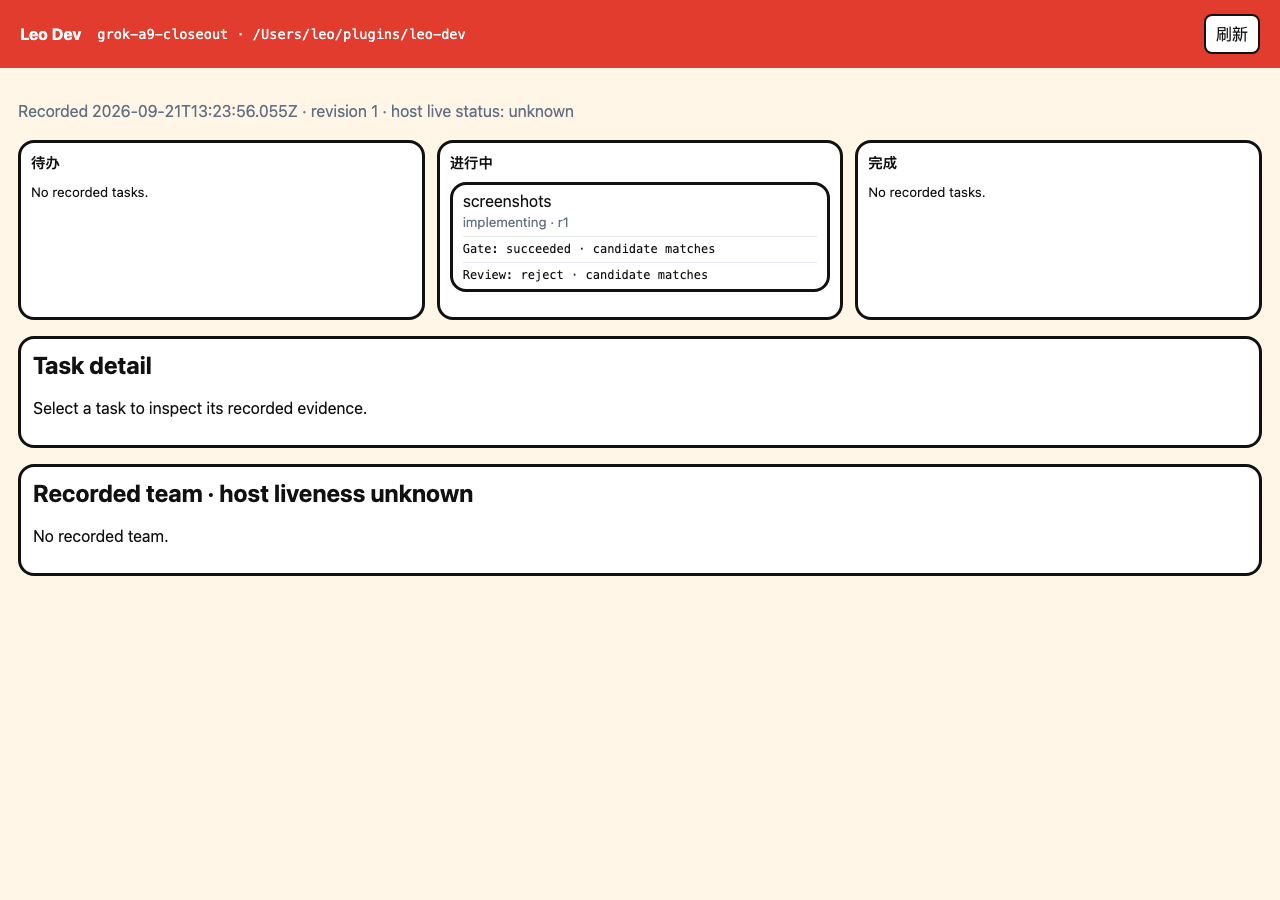
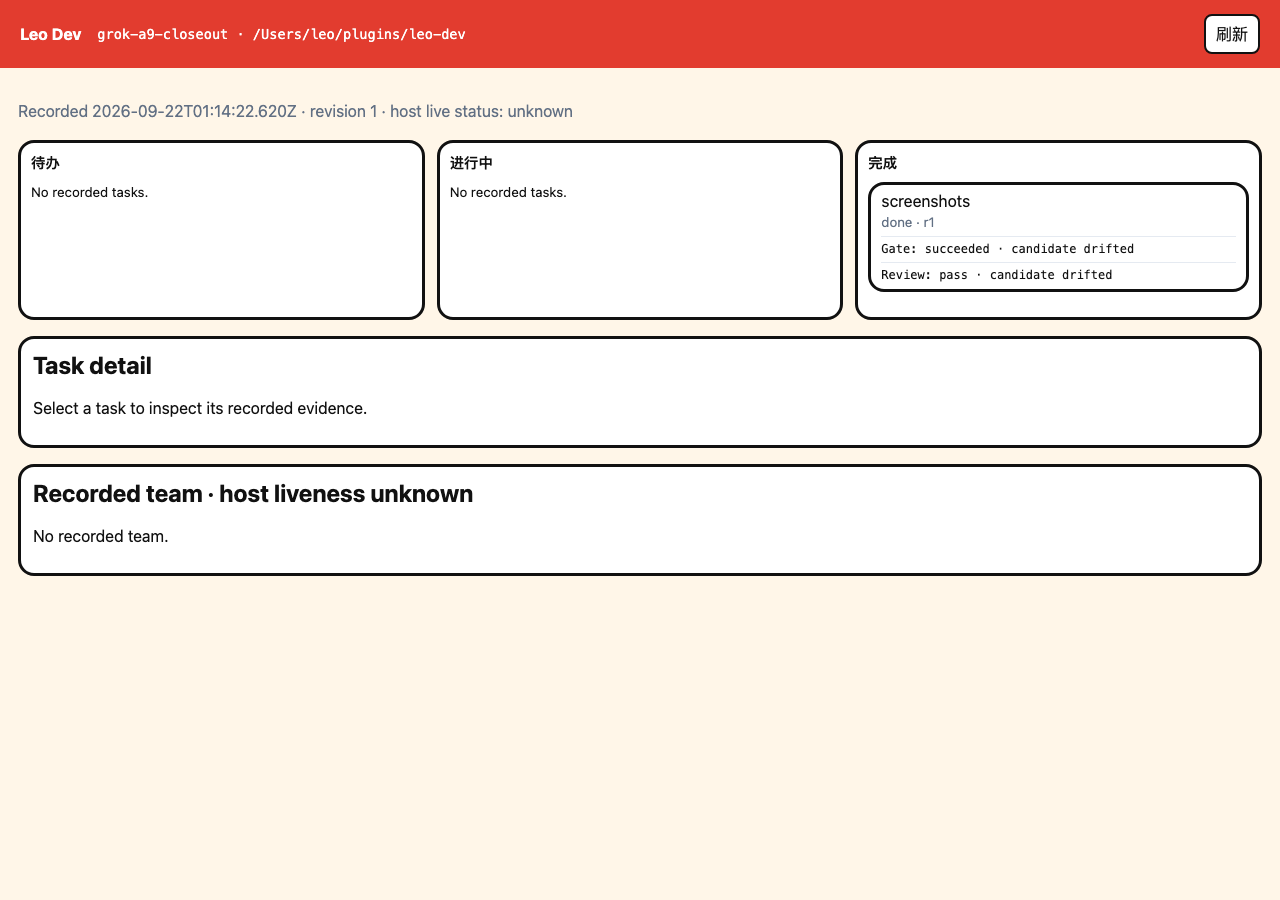
docs: align README with v2 workbench and independent review
Describe the three-column Chinese board, Grok as first-period host,
and host-subagent review (not a second window). Refresh done-state screenshots.

diff --git a/README.md b/README.md
@@ -3,12 +3,14 @@
 </p>
 
 <h1 align="center">Leo Dev</h1>
-<p align="center"><strong>One development entry. Work you can pick up and verify.</strong></p>
-<p align="center">Codex first · TypeScript + Node.js · MIT licensed</p>
+<p align="center"><strong>One <code>develop</code> entry. Work you can pick up and verify.</strong></p>
+<p align="center">Grok Build first period · TypeScript + Node.js · MIT licensed</p>
 
-Leo Dev helps a coding agent carry an approved idea through design, implementation, checks, review and delivery. It reuses selected upstream methods and keeps task state, evidence and recovery in one local lifecycle controller.
+Leo Dev is a plugin for an existing coding host. The host keeps the session, tools, model, permissions and sandbox. The plugin supplies one public entry (`develop`), a local lifecycle journal, and a three-column workbench that reads that journal.
 
-Call **`$leo-dev:develop`** in a Codex session. Keep your existing specification, use the methods the task needs, and get a delivery report that distinguishes passed checks from work that was not run.
+The cycle is specification → plan → implementation → independent review → evidence bound to the current tree. Questions and read-only inspection do not open a ledger. Any product-code change uses the full cycle. Stages do not force TDD, worktrees or a second branded workflow. Independent review is a host subagent with a different session id, not a second window and not the implementer switching roles. Repair continues until the review passes or the same findings stop progress. After a pass you can commit locally; push still needs an explicit request. `integration-review` is not release-ready.
+
+On Grok, install the plugin and call **`$develop`**. On Codex, the packaged entry is **`$leo-dev:develop`**.
 
 <p align="center">
   <img src="assets/workflow.svg" width="920" alt="Specification and design lead to tasks, implementation and checks, independent review, and release evidence. Rejected reviews return to implementation.">
@@ -16,17 +18,18 @@ Call **`$leo-dev:develop`** in a Codex session. Keep your existing specification
 
 ## Why it exists
 
-- **Keep approved intent.** Continue from the project's existing specification instead of repeating discovery.
-- **Make substantial work reviewable.** Plans carry dependencies and checks; Standard and Full tasks require design and independent review evidence.
-- **Recover carefully.** Versioned candidates, leases and an append-only journal help identify stale evidence and interrupted work.
-- **Repair with a limit.** Gate failures and rejected reviews share a bounded repair budget, followed by a fresh-context debugging attempt.
-- **Deliver evidence.** Aggregate integration, independent verification, artifact hashes and a retrospective support archival. A task marked done is not a release claim by itself.
+- **One entry.** You do not pick a second workflow plugin. Useful methods are absorbed into `develop`; they are not user-facing brands.
+- **Keep approved intent.** After goals are aligned and you say to start, you do not re-approve the spec file unless the goal changed.
+- **Independent review.** A host subagent, with a session id that is not the implementer's. Same window, different role does not count. See [Independent review](#independent-review).
+- **Repair without a count cap.** Failed reviews stay in repair until they pass, or until unchanged findings mean no progress. There is no 2+1 attempt budget.
+- **Honest evidence.** Passed, failed, not run and blocked stay distinct. A recorded pass that no longer matches the tree is drifted, not current.
+- **Local commit only.** `leo-dev commit` records a local git commit and never pushes.
 
-Leo Dev is a workflow and local integrity mechanism. Your host's sandbox, permissions and external CI remain authoritative. See [security boundaries](SECURITY.md).
+Leo Dev is a workflow and local integrity mechanism. The host sandbox, permissions and external CI remain authoritative. See [security boundaries](SECURITY.md).
 
 ## Start from source
 
-Use **Node.js 22** for source development and quality checks, plus npm, Git, and Codex for the host workflow. The packaged controller retains its Node.js 20-or-newer runtime contract. The example app uses Node built-ins and needs no additional packages. Superpowers and relevant UI/browser skills are selected from the host's available skill catalog; missing capabilities must be reported.
+Use **Node.js 22** for source development and quality checks, plus npm and Git. The packaged controller retains its Node.js 20-or-newer runtime contract.
 
 ```sh
 git clone https://github.com/leopaisen-zb/leo-dev.git
@@ -39,19 +42,16 @@ npm test
 npm run test:quality-coverage
 npm run build:adapters
 npm run verify:packages
-npm run build:marketplace
 ```
 
-`dist/codex/leo-dev` contains the portable skill, selected upstream resources and the compiled controller runtime. The generated local marketplace contains a copy of that complete package.
-
-Install the generated package using the documented commands in [the installation guide](docs/installation.md). Source compilation, package integrity and an actual new Codex session are separate checks; their recorded outcomes are in [release evidence](docs/release-evidence.md).
+`dist/open-agent-plugin/leo-dev` is the Grok / Open Agent plugin (skill `develop` plus references). `dist/codex/leo-dev` is the Codex package (skill, selected upstream resources and the compiled controller). Install from those directories with the host's plugin command; see [installation](docs/installation.md). A skill file on disk is not the same check as a new host session loading it.
 
 The quality checks focus on design admission and the relevant recovery behavior. Required test failures and scoped lint errors fail the check; coverage is reporting-only while the first baseline is reviewed. CLI tests execute compiled child processes, so worker-process V8 coverage does not represent all behavior those tests exercise. Historical verification copies are excluded from test discovery.
 
 ## Use the workflow
 
 ```text
-$leo-dev:develop Build the approved feature in this repository.
+$develop Build the approved feature in this repository.
 Reuse the existing specification, complete the implementation and checks,
 get an independent review, and report the actual evidence.
 ```
@@ -59,45 +59,54 @@ get an independent review, and report the actual evidence.
 For an interrupted task:
 
 ```text
-$leo-dev:develop Continue the current change.
+$develop Continue the current change.
 Inspect durable state and the actual working tree before taking a new lease.
 Preserve unrelated edits and do not reuse stale review evidence.
 ```
 
-Small, clear edits use proportionate checks. Substantial work uses the existing project spec, an explicit task plan and the applicable risk policy. The controller serializes tasks; host subagents provide real implementation and review sessions. It does not start a background agent service.
+The controller serializes tasks. Host subagents provide the implementation and review sessions. It does not start a background agent service.
 
-See the [lifecycle and command guide](skills/develop/references/lifecycle.md), [Codex team recipe](skills/develop/references/codex-team.md), and [review protocol](skills/develop/references/review-protocol.md).
+See the [lifecycle and command guide](skills/develop/references/lifecycle.md). Codex-only team members are documented in [codex-team](skills/develop/references/codex-team.md) and do not apply on other hosts.
+
+## Independent review
+
+Leo Dev does not open a second window and does not schedule sessions. The host already owns subagents; the plugin only records who implemented and who reviewed.
+
+1. The implementer claims the task with `leo-dev claim --session <implementer-id>`.
+2. After gates, `leo-dev submit` binds the candidate. The same process asks the **host** to start a reviewer subagent: Grok `spawn_subagent`, Codex agent/thread, Claude Task. That child has its own session id.
+3. The reviewer writes a receipt. `leo-dev review --receipt` accepts it only when provenance is `platform-attested` or `human-confirmed`, both session ids are nonempty, and they differ. `agent-asserted` is never independent. A same-session receipt is CONFLICT; it is not recorded as a failed review.
+
+Switching roles in the current window does not count. If the host has no subagent, stop and ask a person, or take a `human-confirmed` receipt. Do not install another workflow plugin to get a second session.
+
+A later repair needs a **new** reviewer session; an old pass cannot be reused. `REVIEW_REJECTED` means the reject was recorded and the task went back to repair, not that delivery succeeded.
+
+Normative text: [host-subagents](skills/develop/references/host-subagents.md), [review protocol](skills/develop/references/review-protocol.md). The controller check is `independentReviewSession` in `packages/cli/src/state/commit-pass.ts`, used by `leo-dev review`.
 
 ## Inspect task state
 
-The local read-only board shows a change's recorded tasks, assignments, blockers,
-team activity, and test/review evidence from the controller journal.
+The local read-only workbench projects one change from the journal onto three columns: **待办**, **进行中** and **完成**. Review is a card badge (审查中 / 审查未过), not a fourth column. Gate and review verdicts are shown on the card; whether that evidence still matches the current tree is a separate field (`matches` / `drifted` / `unknown`).
 
 <p align="center">
-  <img src="assets/leo-dev-board.png" width="920" alt="Leo Dev 看板 with three Chinese columns 待办, 进行中 and 完成">
+  <img src="assets/leo-dev-board.png" width="920" alt="Leo Dev 看板：待办、进行中、完成三列，红头奶油底，右上角刷新">
 </p>
 
-This is the live three-column board: 待办 / 进行中 / 完成. Review is evidence on the card, not a fourth column. The [narrow view](assets/leo-dev-board-mobile.png) stacks the same columns. A recorded verdict and its relationship to the current tree are displayed separately.
+This capture is change `grok-a9-closeout` after the task landed in 完成. The card shows a recorded pass whose candidate has since drifted. The [narrow view](assets/leo-dev-board-mobile.png) stacks the same three columns. Title in the HTML document is **Leo Dev 看板**; the header control is **刷新**.
 
 ```sh
 node packages/cli/dist/index.js board --repo /absolute/path/to/project --change your-change-id
 ```
 
-Open the printed localhost URL and use **Refresh** to read the latest state.
-Selecting a task reveals its evidence references. The board reports unavailable
-or stale observations and keeps host liveness explicitly unknown. Viewing does
-not start agents, edit tasks, or repair history. See the [board guide](docs/board.md)
-for packaged usage and the read boundary.
+Open the printed localhost URL and use **刷新** to read the latest observation. Selecting a task shows its recorded details. A failed refresh marks the previous display stale; old green evidence is not a fresh check. Host liveness stays **unknown**. The board does not start agents, edit tasks, or write the journal. See the [board guide](docs/board.md).
 
 ## Meet Mochi Board
 
-A separate localhost task-board example is included as a substantial development exercise: persistent tasks, three workflow columns, priority and text filters, import/export, and recent activity. Its application data is independent of the controller's task journal.
+A localhost example with persistent tasks, three workflow columns, priority and text filters, import/export, and recent activity. Its application data is independent of the controller journal.
 
 <p align="center">
   <img src="assets/mochi-board.png" width="920" alt="Mochi Board running locally, with pastel task columns, priority filters, import and export controls, and recent activity">
 </p>
 
-The same board adapts to a [390-pixel mobile viewport](assets/mochi-board-mobile.png). Both images come from the independent browser acceptance run.
+The same example adapts to a [390-pixel mobile viewport](assets/mochi-board-mobile.png). Both images come from an independent browser run.
 
 ```sh
 node examples/mochi-board/server.mjs
@@ -109,24 +118,19 @@ Open `http://127.0.0.1:4173`. Data stays in the example's local `.data/` directo
 node examples/mochi-board/server.mjs --port 4174 --data /absolute/path/board.json
 ```
 
-The [example requirements](examples/mochi-board/docs/spec-v2.md) and independent acceptance checks make the behavior reproducible. The workflow exercise also checks review rejection and repair, interrupted work and conservative specification revision. See [the recorded results](docs/release-evidence.md) for what was actually executed.
+The [example requirements](examples/mochi-board/docs/spec-v2.md) describe that app. See [recorded results](docs/release-evidence.md) for what that exercise actually ran.
 
-## How it relates to mature workflows
+## How it relates to other methods
 
-Leo Dev selects methods for each stage and retains one coordinator:
+Users do not choose a second workflow by brand name. Planning, review and recovery behavior that Leo Dev keeps is written into `develop` and the local controller. Pinned upstream files that remain in the package are license and provenance records, not extra entries; see [NOTICE](NOTICE) and [provenance](skills/develop/references/upstream/provenance.json).
 
-| Source | Use in Leo Dev |
-| --- | --- |
-| [Superpowers](https://github.com/obra/superpowers) | External methods for planning, TDD, debugging, review and verification. |
-| [cc-sdd](https://github.com/gotalab/cc-sdd) | Selected pinned requirements, design and task resources, with explicit bindings to the existing artifacts. |
-| [Spec Kit](https://github.com/github/spec-kit) | A pinned, read-only cross-artifact analysis resource. |
-| [BMAD Method](https://github.com/bmad-code-org/BMAD-METHOD) | A selectively adapted team-discussion reference. |
-
-The [benchmark guide](docs/benchmarks.md) links the exact reference versions and acceptance dimensions. These comparisons do not establish faster execution, lower cost or better model accuracy. Resource reuse is tracked in [provenance](skills/develop/references/upstream/provenance.json) and [NOTICE](NOTICE).
+The [benchmark guide](docs/benchmarks.md) describes a historical comparison. Those numbers are not a v2 completion gate.
 
 ## Support boundary
 
-**Codex is the first acceptance host.** Generated adapters for other clients are packaging outputs; they do not imply a complete end-to-end validation on those clients. Native-mobile and AI/RAG-specific acceptance remain separate work. See [release evidence](docs/release-evidence.md) for current checks and limits.
+**Grok Build is the first-period run and accept host** (spec 2.1.1). Codex remains on the design list and does not block this period. Claude Code, Qoder and DeepSeek adapters are packaging or shape work, not first-period gates. Cursor is out of this period. Grok marketplace browse-install was not the discovery check; a local `grok plugin install` plus a new session was.
+
+See [spec 2.1.1](.scratch/modern-harness/spec.md), [first-period acceptance](.scratch/modern-harness/acceptance.md), and [release evidence](docs/release-evidence.md) for what was executed versus not run. Native-mobile and AI/RAG-specific acceptance remain separate work.
 
 Contributors can use the [development guide](CONTRIBUTING.md). Private local histories, credentials, old approval receipts, generated caches and raw session evidence are excluded from the distribution.
 
